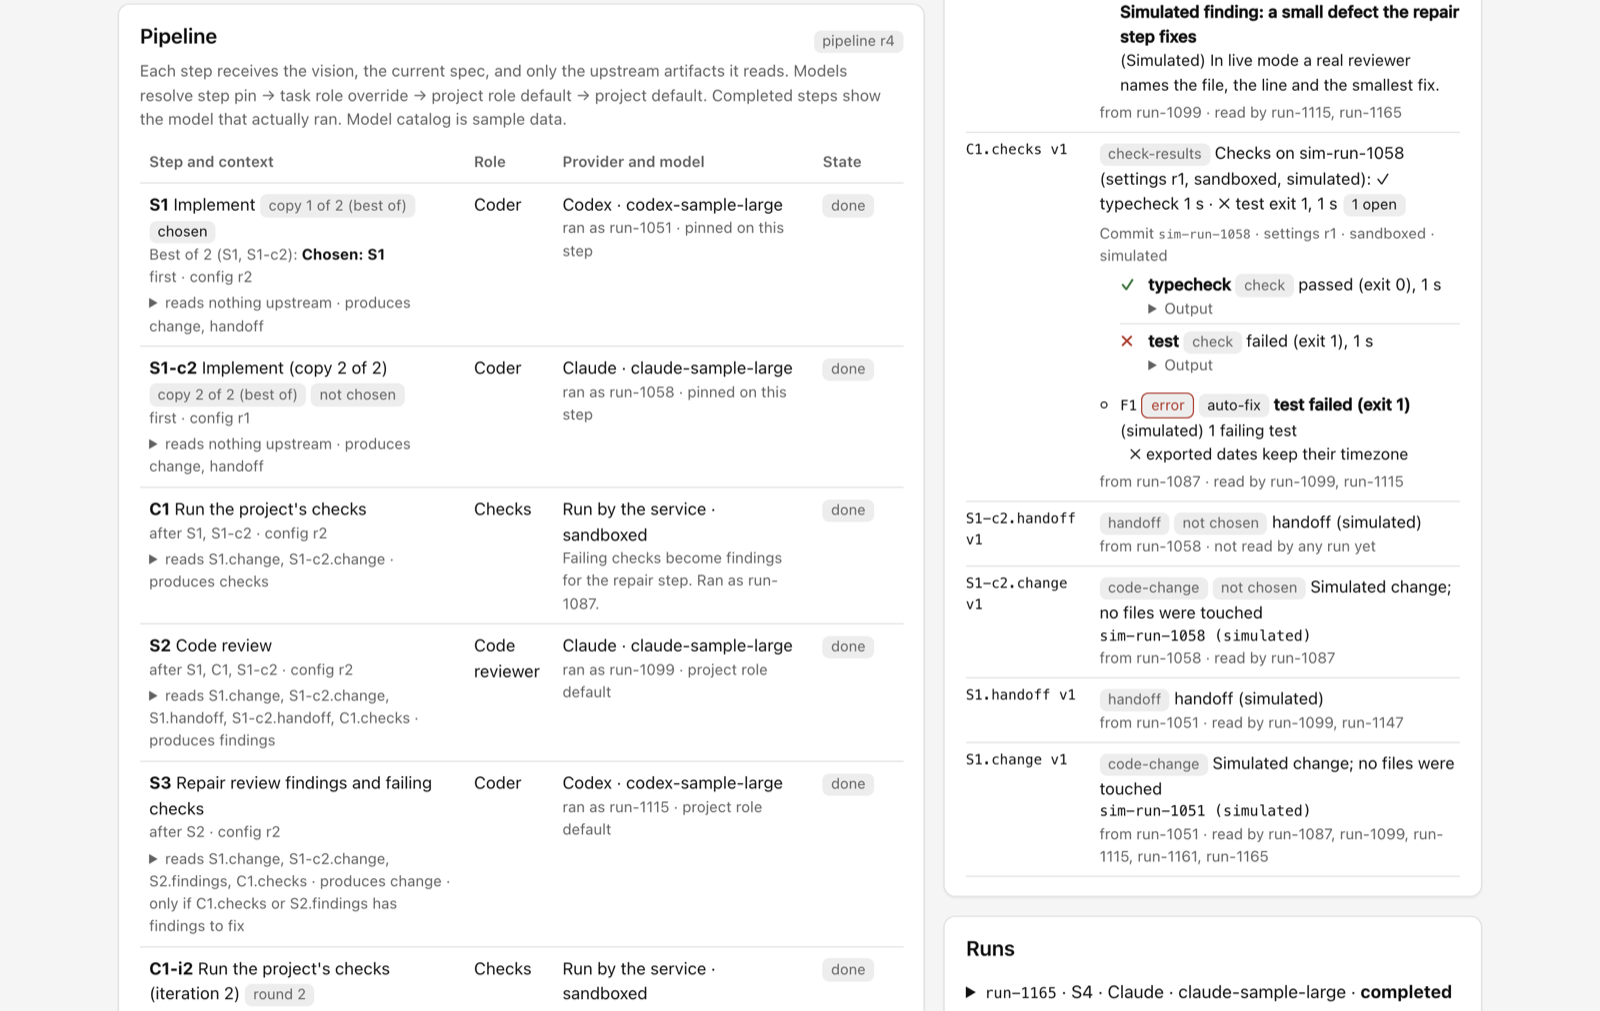
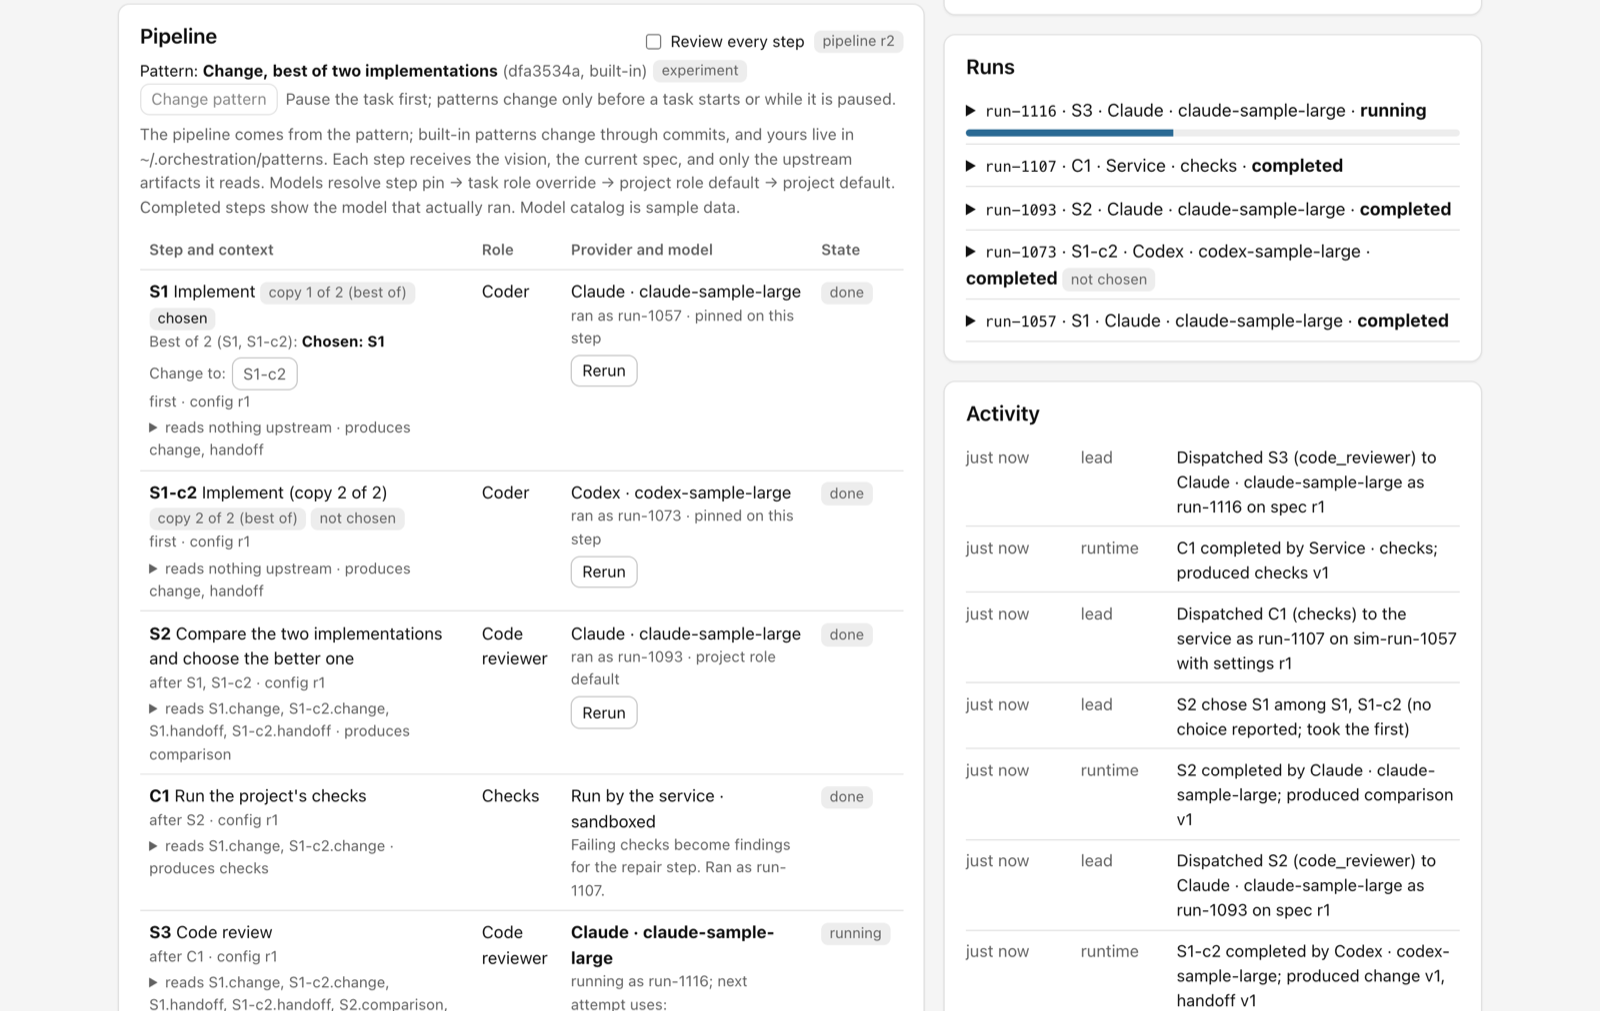
ORC-016: browser pass evidence, patterns screenshot, follow-up numbering
Records the lead's browser pass (light and dark, desktop and 375 px) on the
fake runtime, adds docs/screenshots/patterns.png, retakes best-of-pipeline.png,
marks the spec completed, and renumbers follow-ups (ORC-017 demo polish,
ORC-018 comparison and traces, ORC-019 SWE-bench).

diff --git a/docs/tasks/ORC-016.md b/docs/tasks/ORC-016.md
@@ -4,7 +4,7 @@
 
 - ID and title: ORC-016, pipeline patterns: a curated catalog of pipelines defined as JSON files and chosen per task, instead of a pipeline edited in the UI
 - Author and timestamps: Lead (Claude), 2026-09-30
-- Status, priority, and priority rationale: Proposed, P2. The user asked for it "as a follow up once these last tasks are completed". It removes a large, fragile editing surface, and it is the base for comparing patterns later (ORC-017).
+- Status, priority, and priority rationale: Completed, P2. The user asked for it "as a follow up once these last tasks are completed". It removes a large, fragile editing surface, and it is the base for comparing patterns later (ORC-018).
 - Specification revision: 1
 - Project vision revision: PROJECT_SPEC.md as of 2026-09-30
 - Technical design: `docs/design/ORC-016-design.md`
@@ -50,7 +50,7 @@ Outcome:
   - the provider and model pin on each step, on the task page;
   - task role overrides;
   - project role defaults.
-- **Experiments are cheap and recorded.** A pattern can be marked experimental, with its hypothesis. Every task records which pattern it ran (id, content hash, source). From now on, every finished or cancelled task also records its outcome: time, runs, tokens and cost, repair rounds, findings, checks and coverage. A later comparison view (ORC-017) can then be built on that data.
+- **Experiments are cheap and recorded.** A pattern can be marked experimental, with its hypothesis. Every task records which pattern it ran (id, content hash, source). From now on, every finished or cancelled task also records its outcome: time, runs, tokens and cost, repair rounds, findings, checks and coverage. A later comparison view (ORC-018) can then be built on that data.
 
 ## Scope
 
@@ -105,8 +105,8 @@ Included:
 Excluded:
 
 - **Dropping per-step provider and model choice.** That would need the user to change `AGENTS.md`. This spec does not do it, and the user confirmed the choice stays.
-- A pattern comparison view (outcomes grouped by pattern and hash, with honest sample-size notes): a later ORC-017. The data recorded here is meant to be enough for it.
-- Exporting traces to Arize Phoenix or Langfuse (a later ORC-017), and running SWE-bench Verified tasks through patterns (a later ORC-018). Nothing here sends telemetry.
+- A pattern comparison view (outcomes grouped by pattern and hash, with honest sample-size notes): a later ORC-018. The data recorded here is meant to be enough for it.
+- Exporting traces to Arize Phoenix or Langfuse (a later ORC-018), and running SWE-bench Verified tasks through patterns (a later ORC-019). Nothing here sends telemetry.
 - Automatic assignment, such as "try pattern B on the next N tasks of kind X". It is not trivial: it needs task kinds, and rules for the lead and for holds. The seam is the recorded `chosenBy`, which would gain `"rotation"`.
 - Patterns read from a managed repository. Agents can edit those files and could weaken reviews or checks. A later option would read them only from the trusted base, as ORC-013 does for conventions, and add them to protected paths.
 - Named parameters in patterns, a file watch, and a YAML format.
@@ -138,7 +138,7 @@ How each part works:
 | Changing a task's pattern | Before start, or while Paused. The pipeline starts over; work done stays on the record and is never consumed. | Keeping done steps whose id and structure match: ids mean different steps in different patterns (S1 is design in Feature and implementation in Change), so matching saves little and risks stale results |
 | Custom templates | Retired from the state, then written once as pattern files of yours at the next start | Dropping them (loses work). Keeping them selectable (keeps custom templates alive in the UI). |
 | Who may use which pattern | The lead, breakdowns and the project default use standard patterns only | Letting the lead pick experiments: `AGENTS.md` allows competing implementations only when the user enables them |
-| Outcome data | One `TaskOutcome` snapshot when a task settles, computed by a pure function and applied in one place in the store. Delivery results are derived later from fields already kept. | Recomputing everything later: finding decisions are pruned (at most 2,000), so their counts would be lost. A full event log or traces now: out of scope (ORC-017). |
+| Outcome data | One `TaskOutcome` snapshot when a task settles, computed by a pure function and applied in one place in the store. Delivery results are derived later from fields already kept. | Recomputing everything later: finding decisions are pruned (at most 2,000), so their counts would be lost. A full event log or traces now: out of scope (ORC-018). |
 | Content hash | SHA-256 (`@noble/hashes`) of the resolved steps, canonicalised with RFC 8785 (`canonicalize`), plus a per-file hash for each file in the `extends` chain | A hash of the file bytes only: whitespace and comments would split comparison groups |
 
 ## Decision
@@ -159,7 +159,7 @@ How each part works:
   - **Whether `tsx` and Vite import JSON** as `tsc` expects with `resolveJsonModule`. This is checked first in step 1. The fallback is import attributes (`with { type: "json" }`).
   - **Whether the user wants the lead to choose patterns that pause** (the gated variants). They are user-only for now; it is one rule to relax.
   - **`checks.only` removal.** If the user misses it, the per-command setting in Settings → Checks is the follow-up.
-  - **The OpenTelemetry GenAI conventions are still marked "Development".** Attribute names are re-checked against the version pinned when ORC-017 exports traces.
+  - **The OpenTelemetry GenAI conventions are still marked "Development".** Attribute names are re-checked against the version pinned when ORC-018 exports traces.
 - User override: none yet.
 
 ## Acceptance and validation
@@ -230,6 +230,7 @@ How each part works:
 ## Revision history
 
 - r1, Lead (Claude), 2026-09-30: initial spec from the user's request. It records four further user directions: model choice stays configurable, patterns are JSON files edited in code, experiments must be possible, and open-source tools are preferred.
+- r1 note, Lead, 2026-10-01: follow-ups renumbered. The user asked for a demo and visual polish next, so it is ORC-017; the comparison view and trace export become ORC-018, and SWE-bench runs ORC-019. The scope of this task is unchanged.
 
 ## Completion evidence
 
@@ -242,5 +243,13 @@ Steps 4 and 5 (UI; docs, scripts and verification), on branch `pipeline-patterns
   - `node scripts/real-run-test.mjs --fake`: PASSED, 11 of 11 checks, with its one-step pattern written as a file of its own into the throwaway data directory (`evidence/work-<time>/patterns/one-step.json`); evidence in `evidence/real-run-fake-2026-10-01T03-00-21-377Z.json`. Both tasks record `pattern: { id: "one-step", source: "local", chosenBy: "user" }` with the file's hash.
   - No test or script calls `setPipeline`, `saveTemplate`, `deleteTemplate` or `restoreBuiltInTemplates` as a command (`grep` over `scripts/`, `server/`, `src/`); tests build custom pipelines through `server/testing/pipelines.ts` only.
 - **Steps 2–3 review findings**, fixed in these steps with one regression test each: (1) decisions from an earlier pattern are neither carried forward nor decidable (`findings.ts`); (2) only children of the current pattern's breakdowns are reconciled, waited for and reported, and earlier ones are labelled (`model.ts`, `envelope.ts`, the Child tasks card); (3) the loop exemption of the review rule needs `max ≥ 2`, the reviewer before the coder, the coder's change as the newest in the body and a `runIf` on the reviewer's findings, and a reviewer must report `review-findings` (`patterns.ts`); (4) `patternChanges` counts revisions after the first that applied a pattern; (5) `openAtEnd` takes the latest check round; (6) G2 covers `reportRunLost` and `acknowledgeStop`, and `nextRevisionFor` gives copies, iterations and check rounds revisions above any the id had; (7) `reopenDropped` deletes the outcome; (8) an export tries the next free name, up to 10; (9) the two git-backed tests that timed out under full-suite load have a 20 s budget.
-- **Browser pass** (fake runtime, light and dark, desktop and 375 px): to be recorded by the lead, with the screenshots `docs/screenshots/patterns.png` (new) and `best-of-pipeline.png` (retaken).
+- **Browser pass** by the lead (fake runtime, scratch data directory, 2026-10-01; light and dark, 1360 px and 375 px):
+  - Two files in the scratch `~/.orchestration/patterns/`: `bugfix-pause-after-repro.jsonc` (extends `bugfix`, with a gate after S1) and an intentionally broken `broken.json`.
+  - Settings → Patterns, after Reload: "12 patterns (1 yours); 1 file with errors". The broken file's two errors are listed with `broken.json:1:1` and "skipped", and the page says the app started anyway.
+  - `createTask` with `bugfix-pause-after-repro` made T-008. Its page shows "Pattern: Bug fix, pause after reproducing (916a8c80, yours)". `change-best-of-two` made T-009, labelled "experiment". An unknown id was refused with "Unknown pattern no-such-pattern".
+  - On T-008, Change pattern opens the grouped picker, the read-only step preview ("6 steps, read-only…"), and the consequences ("Nothing has run yet, so the pipeline is simply replaced.").
+  - T-009 ran on the fake runtime: S1 and S1-c2 ran on Claude and Codex, S2 chose S1, and C1 ran checks. While it ran, Change pattern was disabled with "Pause the task first".
+  - New task: the picker, preview and default preselection fit at 375 px.
+  - Not new: at 375 px the pipeline table scrolls sideways inside its card, as it does on `main`. A phone layout for it is part of ORC-017 (demo and visual polish).
+  - Screenshots: `docs/screenshots/patterns.png` (new) and `best-of-pipeline.png` (retaken from T-009).
 - **Mutation checks** of design §17: recorded per step by their implementers; not repeated here.

diff --git a/docs/design/ORC-016-design.md b/docs/design/ORC-016-design.md
@@ -58,7 +58,7 @@ Companion to `docs/tasks/ORC-016.md` (spec r1). Branch `pipeline-patterns`, cut 
 3. **Tasks own copies.** A file change or a Reload never changes a task that already exists.
 4. **Behaviour is preserved.** The built-in patterns are a 1:1 transcription of today's built-in templates, and the service keeps creating the same shapes.
 5. **Files fail soft, code fails hard.** A broken file of yours is skipped and listed. A broken built-in fails the test suite and never ships.
-6. **Record now, compare later.** Provenance and outcomes are written from now on, and the comparison view is ORC-017.
+6. **Record now, compare later.** Provenance and outcomes are written from now on, and the comparison view is ORC-018.
 7. **Reuse the machinery.** Pipeline revisions, stale-result checks, holds, `supersedeDecisions` and `validatePipeline` all stay.
 
 ## 2. Invariants (each has a test, §17)
@@ -767,7 +767,7 @@ How each field is derived:
 
 ### 10.3 Derived later, not copied
 
-Delivery results are already stored on the task, are never backfilled, and are not pruned. A pure `deliveryOutcome(t)` (ORC-017) reads them from `t.integration`:
+Delivery results are already stored on the task, are never backfilled, and are not pruned. A pure `deliveryOutcome(t)` (ORC-018) reads them from `t.integration`:
 
 - the `status` and `at`;
 - `pr` (merged or closed, as observed);
@@ -778,9 +778,9 @@ Delivery results are already stored on the task, are never backfilled, and are n
 
 Time spent paused for a person is derivable later from control events. It is not recorded in v1.
 
-### 10.4 OpenTelemetry GenAI mapping (for ORC-017; nothing is exported now)
+### 10.4 OpenTelemetry GenAI mapping (for ORC-018; nothing is exported now)
 
-The GenAI semantic conventions are still marked "Development". The names below are re-checked against the version pinned when ORC-017 adds an exporter for Phoenix or Langfuse, both of which ingest OTLP.
+The GenAI semantic conventions are still marked "Development". The names below are re-checked against the version pinned when ORC-018 adds an exporter for Phoenix or Langfuse, both of which ingest OTLP.
 
 | Orchestrator | OpenTelemetry | Note |
 | --- | --- | --- |
@@ -797,7 +797,7 @@ The GenAI semantic conventions are still marked "Development". The names below a
 | `RunTally` rows | Metrics `gen_ai.client.token.usage` (`gen_ai.token.type` = input or output) and `gen_ai.client.operation.duration`, by provider, model and agent name | |
 | `TaskOutcome` numbers | `orc.outcome.*` attributes on the task span | Custom |
 
-A later SWE-bench run (ORC-018) needs only what exists after this task:
+A later SWE-bench run (ORC-019) needs only what exists after this task:
 
 - `createTask` with a `patternId` over HTTP;
 - the per-task `PatternRef` with its hash;
@@ -1128,8 +1128,8 @@ Dependencies: B2 needs B1's provenance (`patternSince`). B3 needs B2's `patternS
 
 ## 19. Later: seams left on purpose
 
-- **ORC-017, comparison.** Outcomes grouped by `pattern.id` and `hash`, with sample sizes, using `TaskOutcome` and `deliveryOutcome(t)`. An OTLP exporter maps §10.4 to Phoenix or Langfuse, off by default.
-- **ORC-018, SWE-bench Verified through patterns.** `createTask` with a `patternId` over HTTP, and the outcome records.
+- **ORC-018, comparison.** Outcomes grouped by `pattern.id` and `hash`, with sample sizes, using `TaskOutcome` and `deliveryOutcome(t)`. An OTLP exporter maps §10.4 to Phoenix or Langfuse, off by default.
+- **ORC-019, SWE-bench Verified through patterns.** `createTask` with a `patternId` over HTTP, and the outcome records.
 - **Automatic assignment.** `ChosenBy` gains `"rotation"` and `PatternRef.assignment = { experimentId, arm }`, plus a project setting that rotates two patterns for new tasks of one kind. It needs rules for lead-created tasks and holds.
 - **Patterns in a managed repository**, read only from the trusted base (as ORC-013 does for conventions) and added to protected paths.
 - **"Final checks only" per check command** in Settings → Checks, if `checks.only` is missed.

diff --git a/README.md b/README.md
@@ -128,9 +128,9 @@ All screenshots show the built-in sample project on the simulated runtime: no ag
 
 ![Artifacts](docs/screenshots/artifacts.png)
 
-**Choosing a pattern.** New task shows the catalog in groups (standard, pauses for you, experiments), what each pattern does and when to use it, and a read-only preview of its steps. The same picker changes a task's pattern before it starts or while it is paused, and sets the project default in Settings.
+**Choosing a pattern.** New task shows the catalog in groups (standard, pauses for you, experiments), what each pattern does and when to use it, and a read-only preview of its steps. The same picker changes a task's pattern before it starts or while it is paused, and sets the project default in Settings → Patterns. That page also lists any pattern file with an error, by file, line and column; a broken file is skipped and never stops the app.
 
-![Choosing a pattern for a new task](docs/screenshots/patterns.png)
+![Settings → Patterns: the default pattern, its steps, and a pattern file with errors](docs/screenshots/patterns.png)
 
 **Overview and the lead.** The Overview shows the vision, what changed since your last visit, and the conversation with the lead.
 
